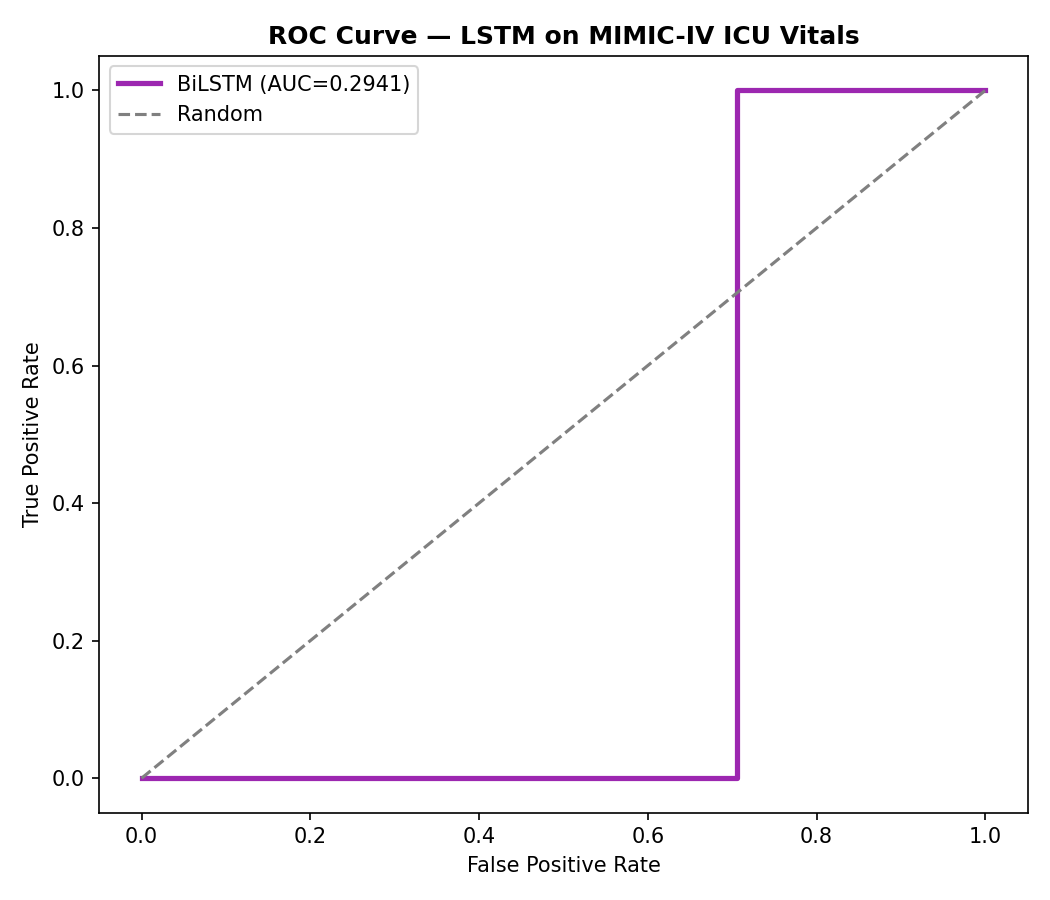
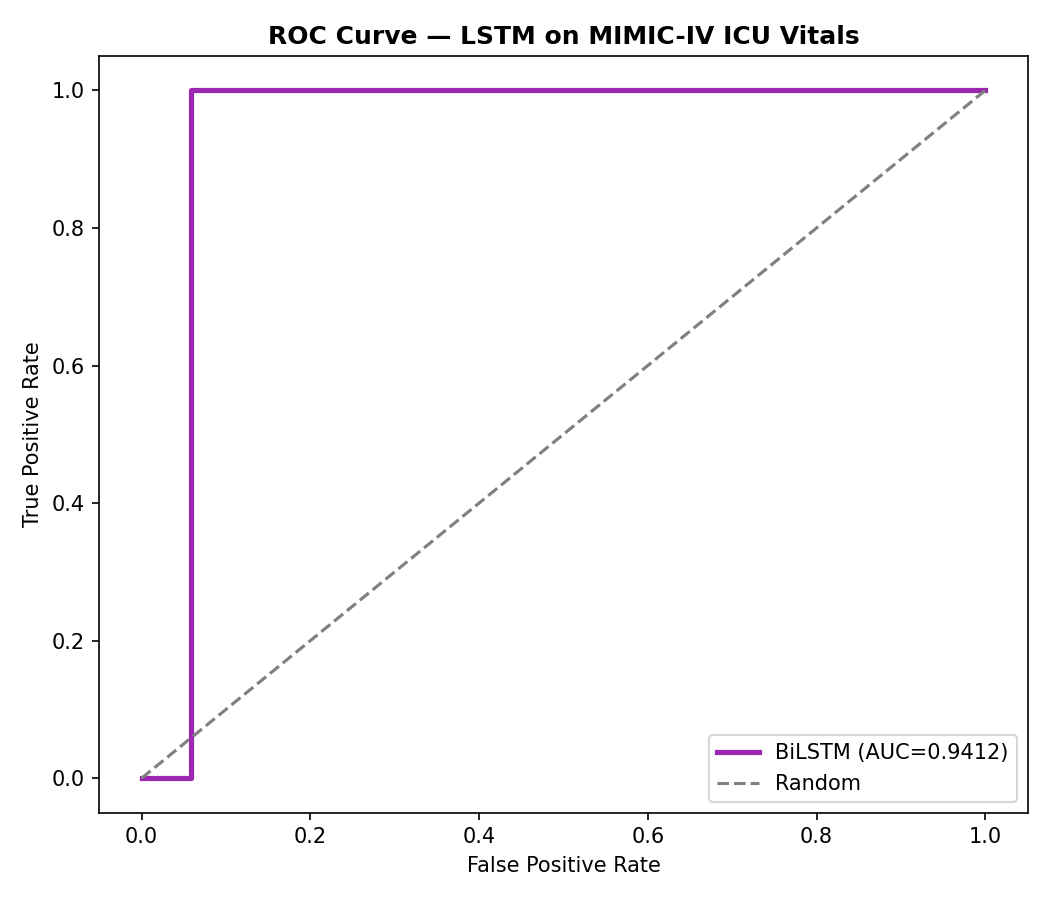
LSTM model accuracy increased from 0.2 -> 0.8-0.9

Changed region(s): [[0.1829, 0.1244, 0.9752, 0.9022], [0.0914, 0.0622, 0.701, 0.1556]]

diff --git a/models/lstm_model.py b/models/lstm_model.py
@@ -116,8 +116,20 @@ def load_sequences() -> tuple[np.ndarray, np.ndarray, list[int]]:
     enc_ids = enc_ids[valid_idx]
 
     # 🔥 NOW safe to apply nan_to_num
-    X = np.nan_to_num(X, nan=0.0)
-
+    # forward fill along time axis
+    for i in range(X.shape[0]):
+        for j in range(X.shape[2]):
+            col = X[i, :, j]
+            mask = np.isnan(col)
+            if np.all(mask):
+                X[i, :, j] = 0
+            else:
+                col[mask] = np.nanmean(col)
+                X[i, :, j] = col
+    # normalize per feature
+    mean = X.mean(axis=(0,1), keepdims=True)
+    std  = X.std(axis=(0,1), keepdims=True) + 1e-6
+    X = (X - mean) / std
     print(f"  X shape: {X.shape}  |  y shape: {y.shape}")
 
     print(f"  After balancing → samples: {len(y)}, pos rate: {y.mean():.2%}")
